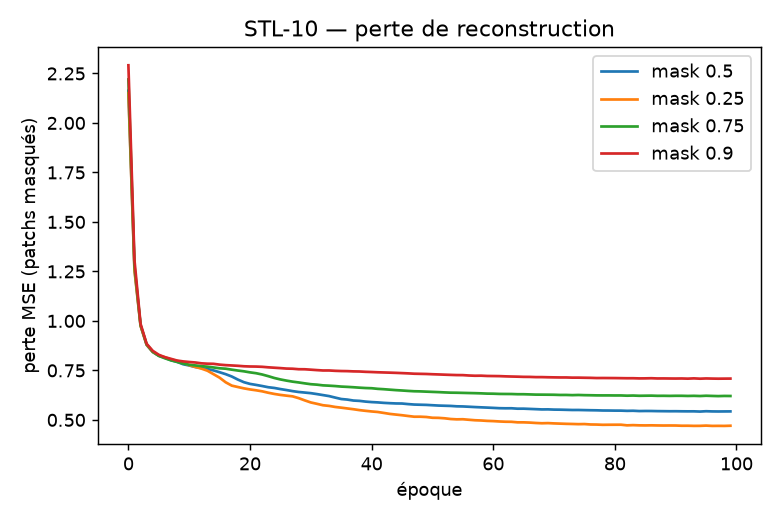
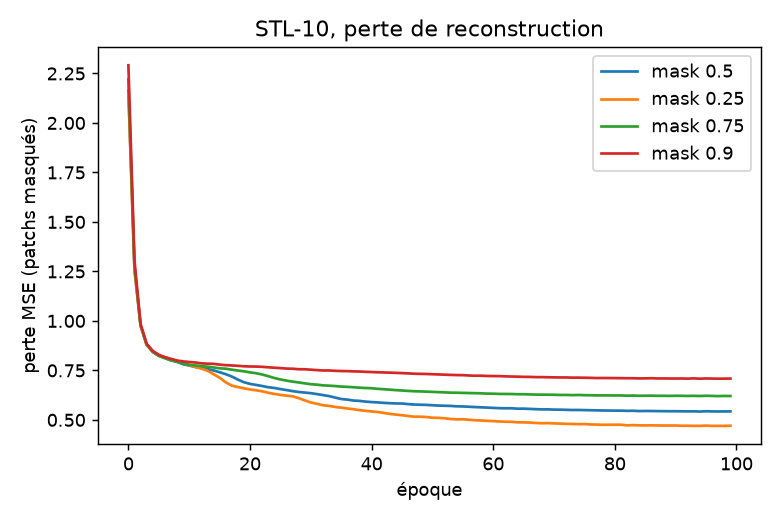
figures: use commas instead of em-dash in plot titles

Changed region(s): [[0.3077, 0.0308, 0.8, 0.0923]]

diff --git a/make_figures.py b/make_figures.py
@@ -35,7 +35,7 @@ if os.path.exists("results/ablation.json"):
     for r in res["ratios"]:
         plt.plot(lc[str(r)], label=f"mask {r}")
     plt.xlabel("époque"); plt.ylabel("perte MSE (patchs masqués)")
-    plt.title("STL-10 — perte de reconstruction")
+    plt.title("STL-10, perte de reconstruction")
     plt.legend(); plt.tight_layout(); plt.savefig(f"{FIG}/loss_curves.png", dpi=130); plt.close()
 
     if os.path.exists("results/recon.npz"):
@@ -67,7 +67,7 @@ if os.path.exists("results/neu.json"):
     plt.plot(totals, [neu["mae_eff"][str(k)] for k in pc], "o-", color=BLUE, label="MAE pré-entraîné")
     plt.plot(totals, [neu["rnd_eff"][str(k)] for k in pc], "s--", color="gray", label="encodeur aléatoire")
     plt.xlabel("nombre d'images étiquetées"); plt.ylabel("exactitude (6 défauts)")
-    plt.title("NEU — efficacité en annotations")
+    plt.title("NEU, efficacité en annotations")
     plt.legend(); plt.tight_layout(); plt.savefig(f"{FIG}/neu_efficiency.png", dpi=130); plt.close()
 
     # matrice de confusion
@@ -90,7 +90,7 @@ if os.path.exists("results/neu.json"):
                          color="white" if cm[i, j] > cm.max() / 2 else "black")
         short = [n[:5] for n in names]
         plt.xticks(range(K), short, rotation=45, fontsize=8); plt.yticks(range(K), short, fontsize=8)
-        plt.xlabel("prédit"); plt.ylabel("vrai"); plt.title("NEU — matrice de confusion")
+        plt.xlabel("prédit"); plt.ylabel("vrai"); plt.title("NEU, matrice de confusion")
         plt.tight_layout(); plt.savefig(f"{FIG}/neu_confusion.png", dpi=130); plt.close()
     print("NEU : ref %.3f | MAE %.3f" % (neu["acc_base"], neu["acc_full"]))
 
